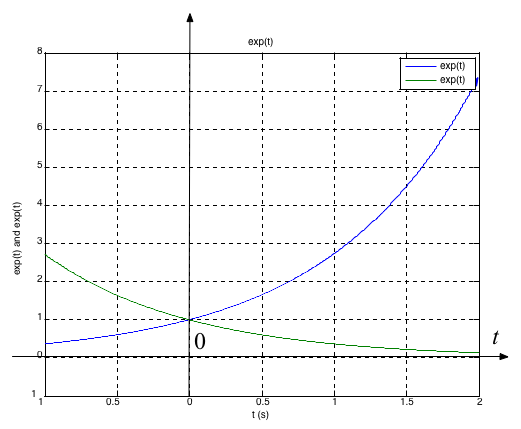
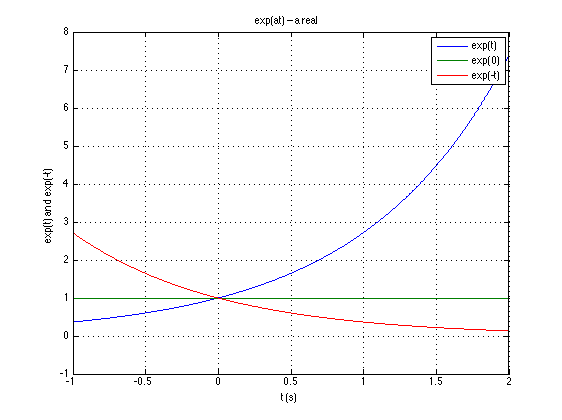
Updates post-lecture

diff --git a/week6/matlab/expon.m b/week6/matlab/expon.m
@@ -7,11 +7,11 @@
 %% The decaying exponentail
 t=linspace(-1,2,1000);
 figure
-plot(t,exp(t),exp(0.*t),t,exp(-t))
+plot(t,exp(t),t,exp(0.*t),t,exp(-t))
 axis([-1,2,-1,8])
-title('exp(t)')
+title('exp(at) -- a real')
 xlabel('t (s)')
 ylabel('exp(t) and exp(-t)')
-legend('exp(t)','exp(-t)')
+legend('exp(t)','exp(0)','exp(-t)')
 grid
 hold off
